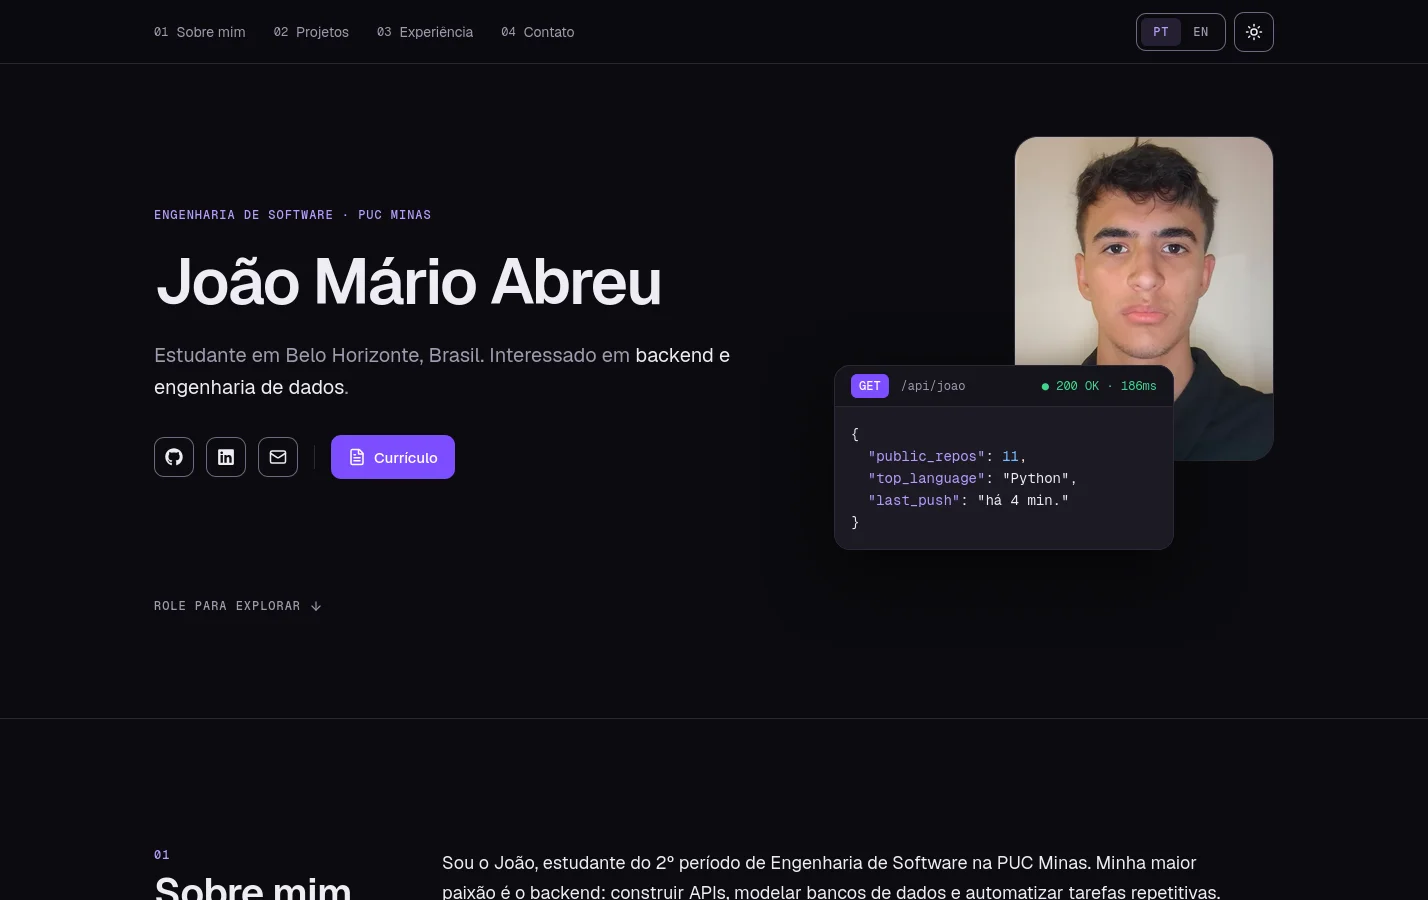
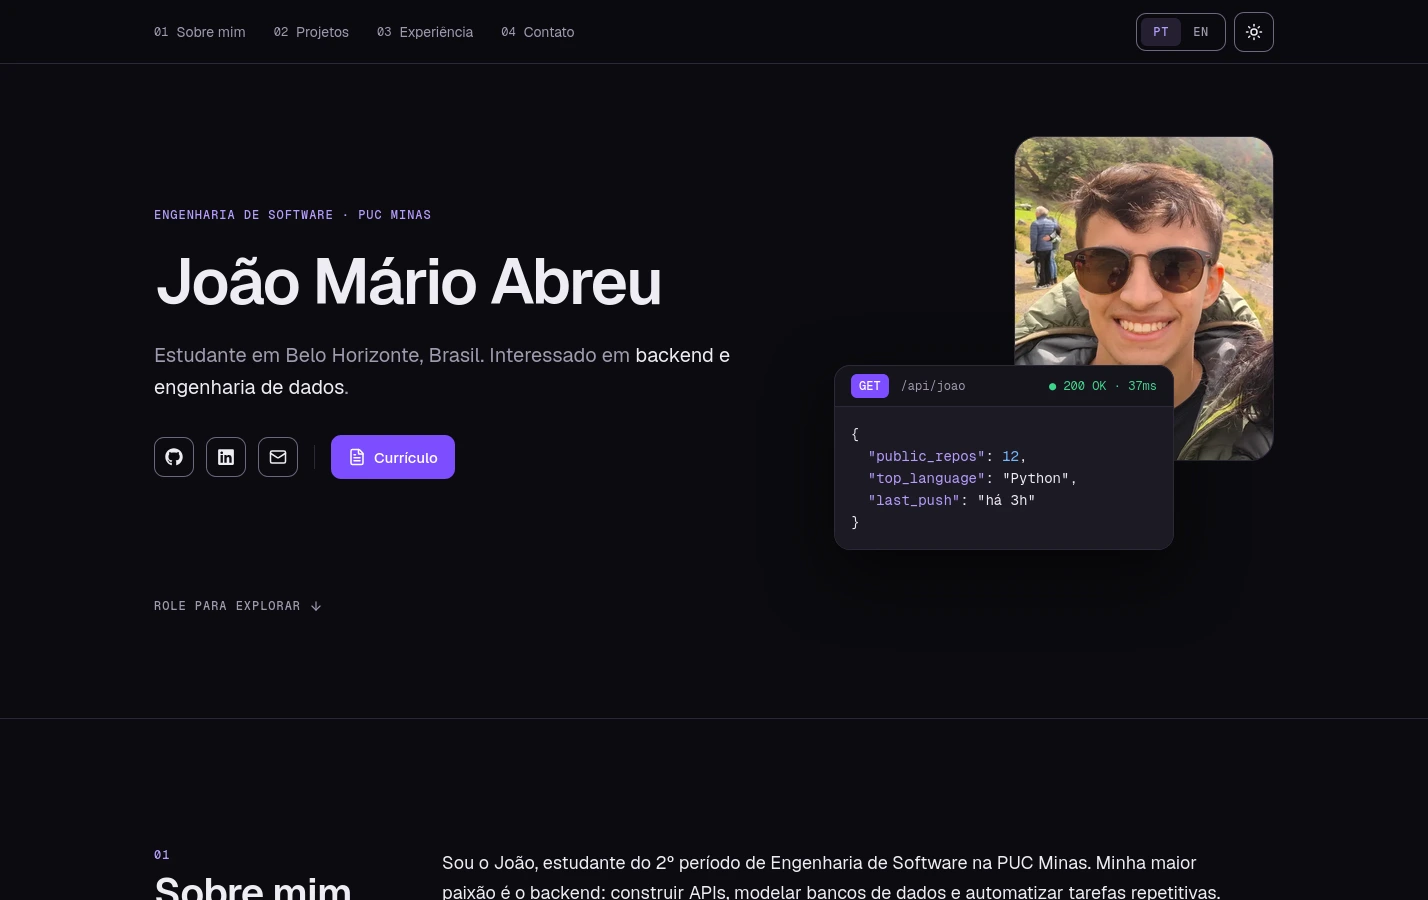
novos prints para o readme

Changed region(s): [[0.7087, 0.1556, 0.8936, 0.5289], [0.7087, 0.5289, 0.7395, 0.56]]

diff --git a/README.md b/README.md
@@ -483,7 +483,7 @@ Capturas do site publicado em [joaomario.dev](https://www.joaomario.dev).
 
 |                                                                   Página inicial · desktop · tema escuro                                                                    |                                                                                                                              Projetos · desktop · tema escuro                                                                                                                               |
 | :-------------------------------------------------------------------------------------------------------------------------------------------------------------------------: | :-----------------------------------------------------------------------------------------------------------------------------------------------------------------------------------------------------------------------------------------------------------------------------------------: |
-|     <img src="./docs/screenshots/home-desktop-dark.webp" alt="Hero no desktop, tema escuro, com foto, redes, botão do currículo e o card de GET /api/joao" width="420">     |                                                            <img src="./docs/screenshots/projects-desktop-dark.webp" alt="Linha do tempo de projetos no desktop, tema escuro, com Scribd to PDF e Site de Portfólio" width="420">                                                            |
+|     <img src="./docs/screenshots/home-desktop-dark.webp" alt="Hero no desktop, tema escuro, com foto, redes, botão do currículo e o card de GET /api/joao" width="420">     |                                                            <img src="./docs/screenshots/projects-desktop-dark.webp" alt="Linha do tempo de projetos no desktop, tema escuro, com Courtside API e Site de Portfólio" width="420">                                                            |
 |                                                            **Design system (`/design`) · desktop · tema escuro**                                                            |                                                                                                                     **Página inicial e contato · celular · tema claro**                                                                                                                     |
 | <img src="./docs/screenshots/design-desktop-dark.webp" alt="Página /design no desktop, tema escuro, com o menu lateral e a tabela de cores com contraste WCAG" width="420"> | <img src="./docs/screenshots/home-mobile-light.webp" alt="Hero no celular, tema claro, com o card de API sobre a foto" width="140"> <img src="./docs/screenshots/contact-mobile-light.webp" alt="Seção de contato no celular, tema claro, com os links diretos e o formulário" width="140"> |
 
